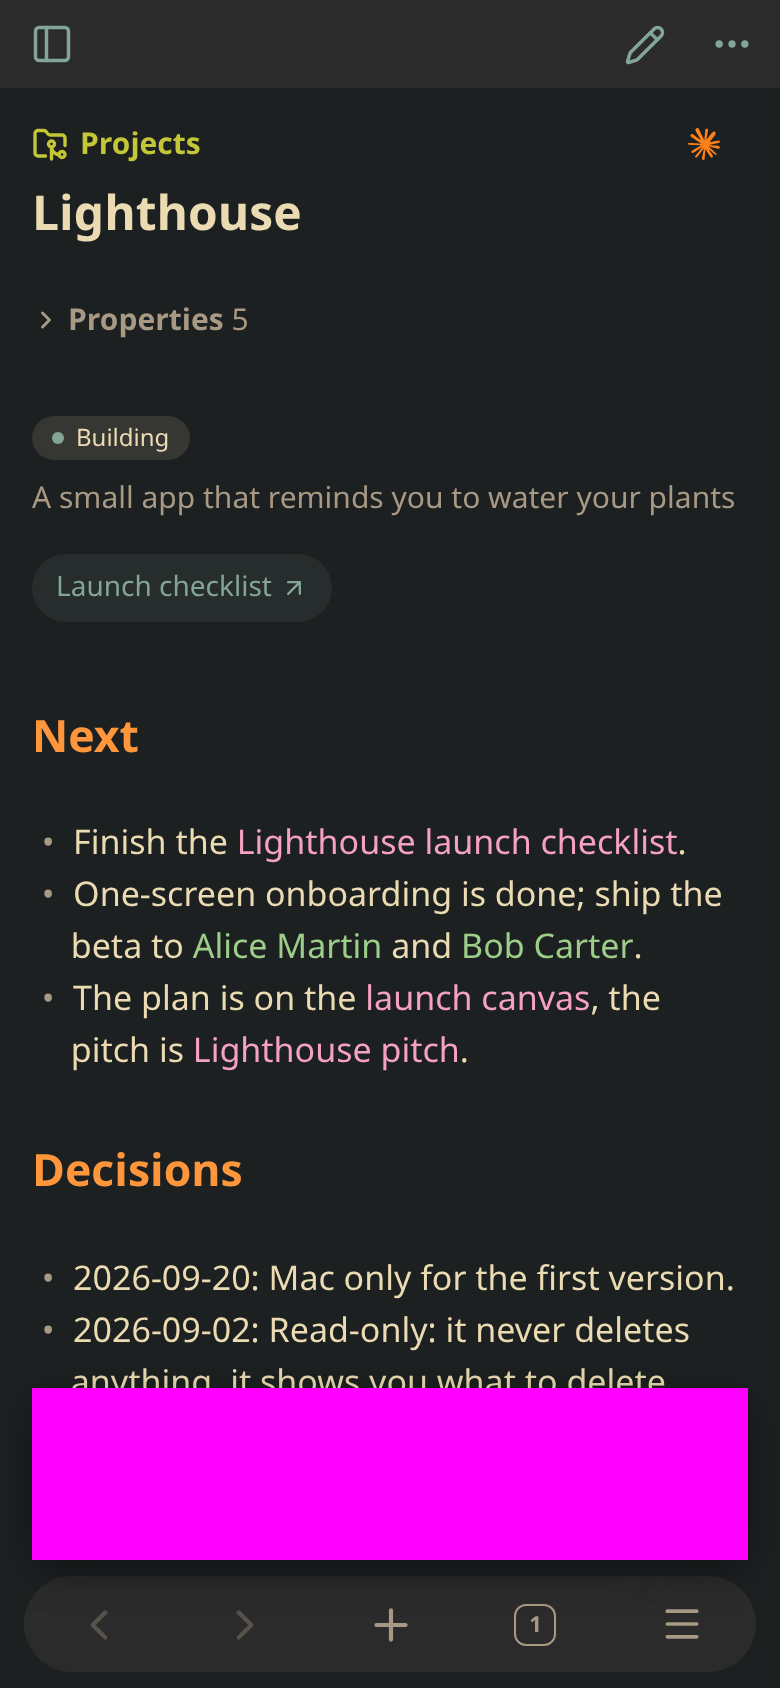
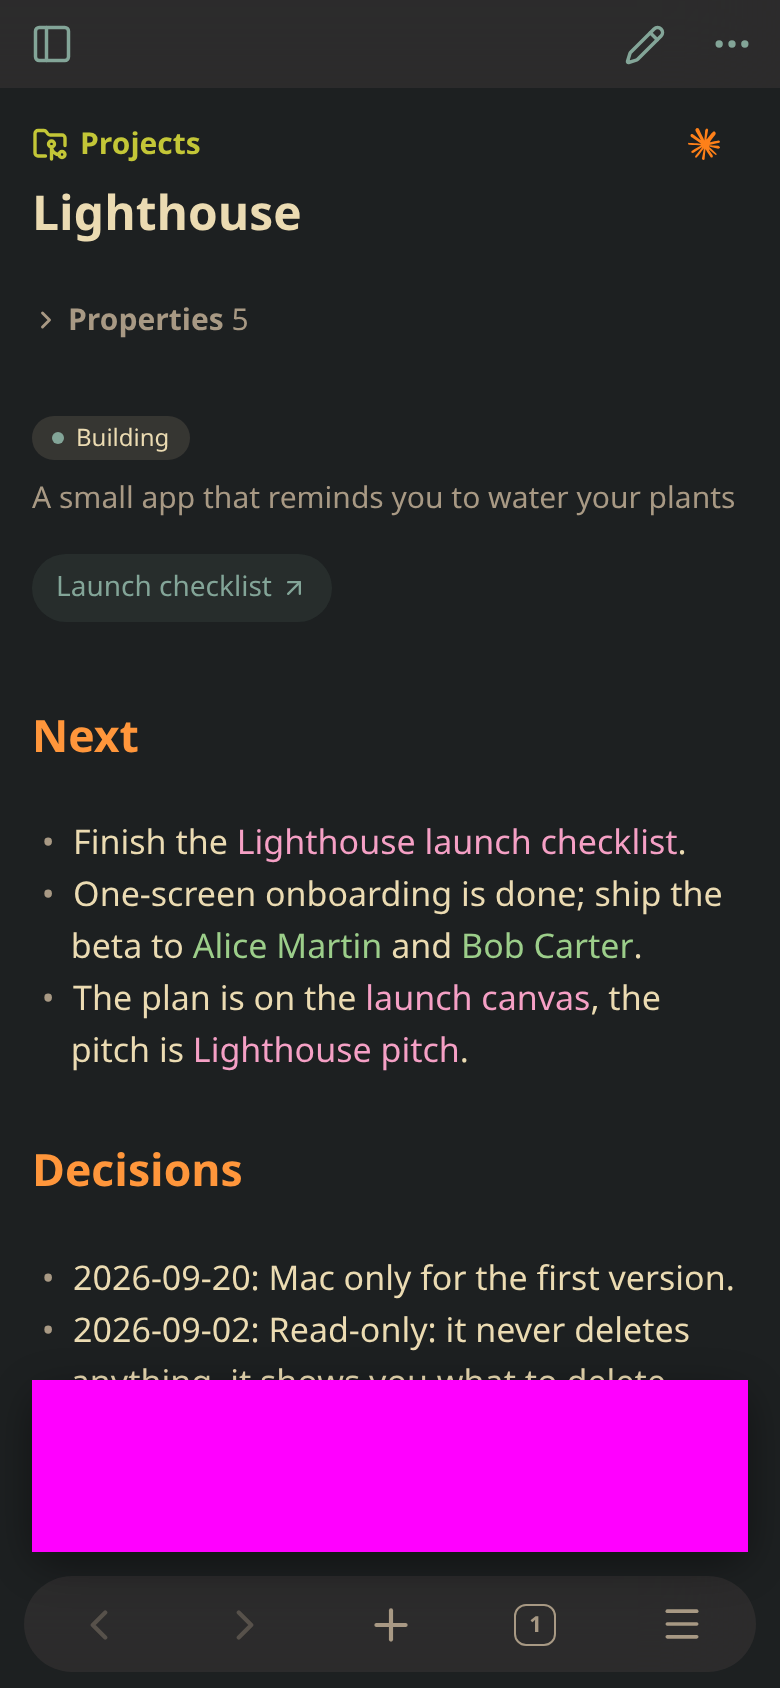
fix(phone): views that fill the screen no longer let the page scroll

Changed region(s): [[0.0308, 0.8934, 0.9538, 0.9242], [0.0308, 0.8009, 0.9538, 0.8318]]

diff --git a/web/src/index.css b/web/src/index.css
@@ -305,9 +305,10 @@ html[data-over-pages] .glass-strong { background: linear-gradient(var(--popover)
 @media (max-width: 767px) {
   .sheet-h { height: 100vh; height: 100dvh; max-height: none; }
 }
-/* Phones: the bar docked at the bottom (components/PhoneBar.tsx): a 3rem row over the home indicator's safe area. What
-   sits above it (the page's end, a toast, the bar's menu) keeps clear of it with this. */
-:root { --phone-bar: calc(max(env(safe-area-inset-bottom), 0.25rem) + 3rem); --mini-player: 0px; --corner-cards: 0px; --trial-bar: 0px; }
+/* Phones: the bar floats above the screen's foot (components/PhoneBar.tsx); --phone-bar is how high its top is. What sits
+   above it (the page's end, a toast, the bar's menu) keeps clear of it with this. */
+:root { --phone-bar-gap: max(calc(env(safe-area-inset-bottom) - 0.75rem), 0.5rem); --phone-bar: calc(var(--phone-bar-gap) + 3rem);
+  --mini-player: 0px; --corner-cards: 0px; --trial-bar: 0px; --page-end: 1.5rem; }
 /* A bundle being tried (components/BundleTrial.tsx): its bar's height and a gap, which toasts sit above. */
 :root[data-trying] { --trial-bar: 44px; }
 @media (max-width: 767px) { :root[data-trying] { --trial-bar: 62px; } }
@@ -326,10 +327,12 @@ html[data-over-pages] .glass-strong { background: linear-gradient(var(--popover)
 [data-bars-away]:not([data-keyboard]) [data-phone-header] > div { opacity: 0; pointer-events: none; }
 [data-bars-away] [data-phone-bar] { transform: translateY(calc(100% + 2.5rem)); opacity: 0; pointer-events: none; transition-duration: 280ms; }
 @media (prefers-reduced-motion: reduce) { [data-phone-header], [data-phone-bar] { transition-property: opacity; } }
-.pb-safe { padding-bottom: calc(var(--phone-bar) + var(--mini-player) + var(--trial-bar) + 1.5rem); }
+.pb-safe { padding-bottom: calc(var(--phone-bar) + var(--mini-player) + var(--trial-bar) + var(--page-end)); }
 @media (min-width: 768px) { .pb-safe { padding-bottom: calc(3rem + var(--mini-player) + var(--trial-bar)); } }
-/* Phones: the screen between the header (3.5rem) and the bar, for what fills it (a canvas, a terminal). */
-.phone-fill { height: calc(100dvh - env(safe-area-inset-top) - 3.5rem - var(--phone-bar)); }
+/* Phones: the screen between the header (3.5rem) and the bar and what sits on it, for what fills it (a canvas, a terminal);
+   it takes back the page's end room, so the page never scrolls under it. */
+.phone-fill { height: calc(100dvh - env(safe-area-inset-top) - 3.5rem - var(--phone-bar) - var(--mini-player) - var(--trial-bar));
+  margin-bottom: calc(-1 * var(--page-end)); }
 
 /* Metrics use SF Pro Rounded, like Health and Fitness. */
 .num { font-family: var(--font-rounded); font-variant-numeric: tabular-nums; }

diff --git a/web/src/components/PhoneBar.tsx b/web/src/components/PhoneBar.tsx
@@ -133,7 +133,7 @@ export function PhoneBar({ system, active, listOpen, onSearch, onCommands, onNew
         </>
       )}
       <nav ref={nav} data-phone-bar aria-label="Navigation" style={{ viewTransitionName: listOpen ? undefined : "phone-bar", touchAction: "none" }}
-        className="sight-foot glass-strong fixed inset-x-3 bottom-[max(calc(env(safe-area-inset-bottom)-0.75rem),0.5rem)] z-30 mx-auto max-w-md rounded-full p-0.5 md:hidden">
+        className="sight-foot glass-strong fixed inset-x-3 bottom-(--phone-bar-gap) z-30 mx-auto max-w-md rounded-full p-0.5 md:hidden">
         <div className="flex items-stretch gap-0.5">{BAR.map(button)}</div>
       </nav>
     </>

diff --git a/CHANGELOG.md b/CHANGELOG.md
@@ -6,6 +6,8 @@ its own number (`API_VERSION` in `core/version.ts`). The details are in git hist
 
 ## Unreleased
 
+- Phone: a terminal, the graph, a canvas and other views that fill the screen fit it exactly, ending at the bottom bar,
+  so the page no longer scrolls a little under them.
 - Phone: the keys over the keyboard end with Done to hide it, and fade in once the keyboard settles instead of jumping
   with it.
 - Phone: while you type a note's name, keys over the keyboard put the name back, go to the text, or hide the keyboard.
